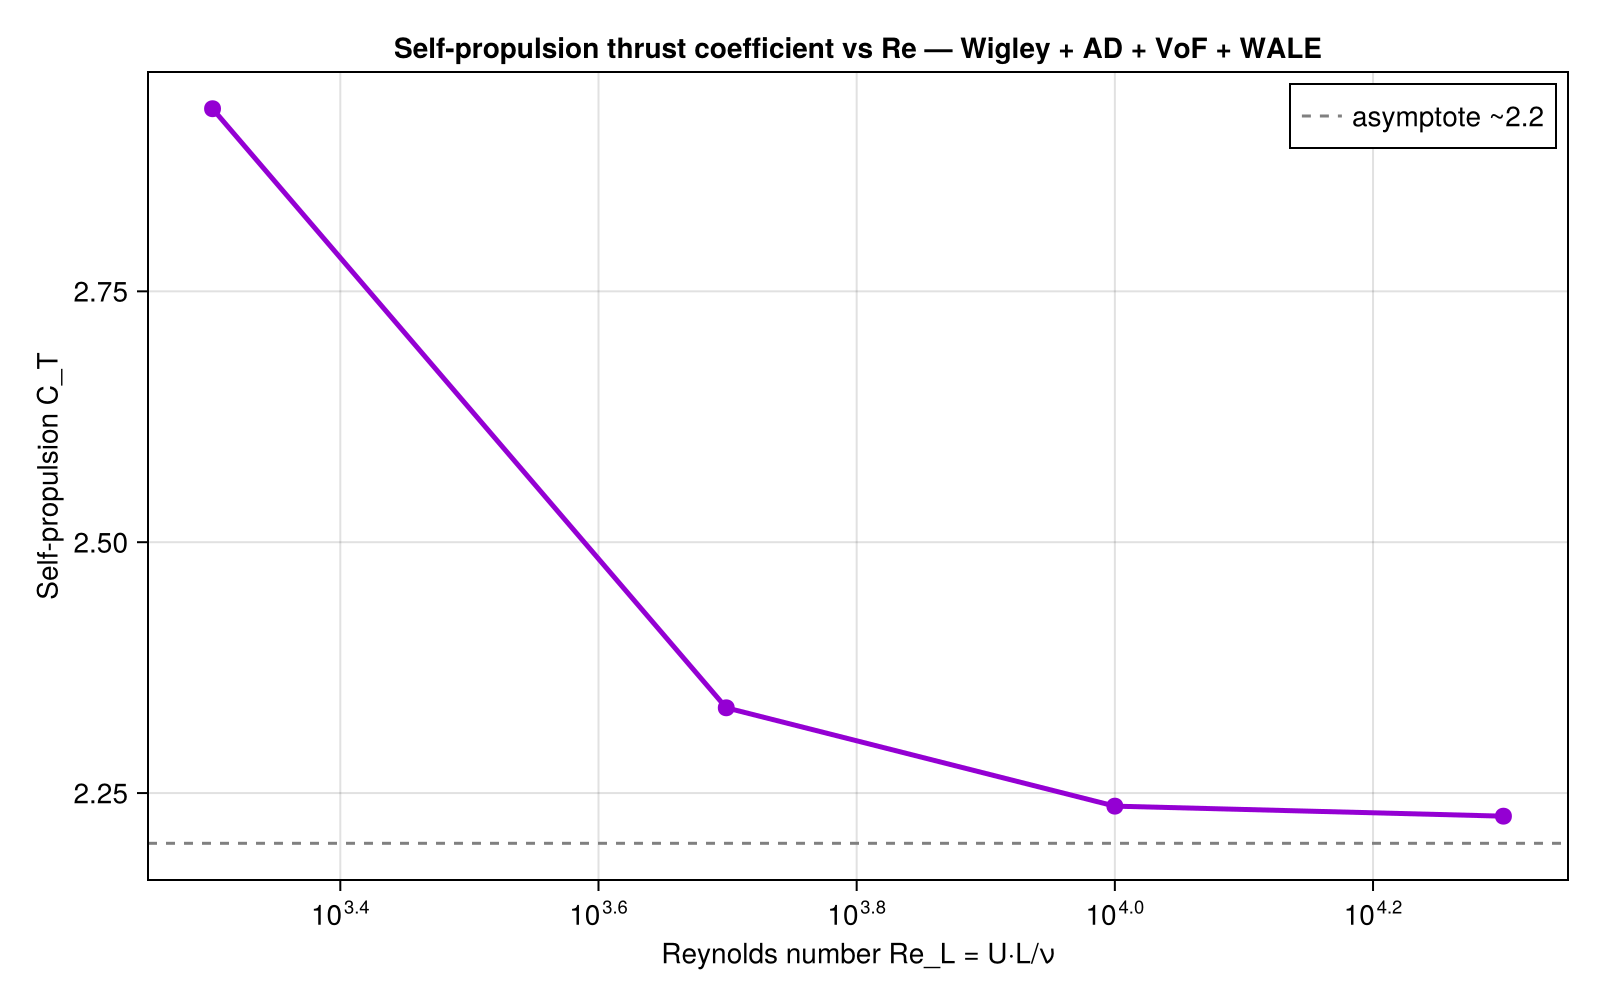
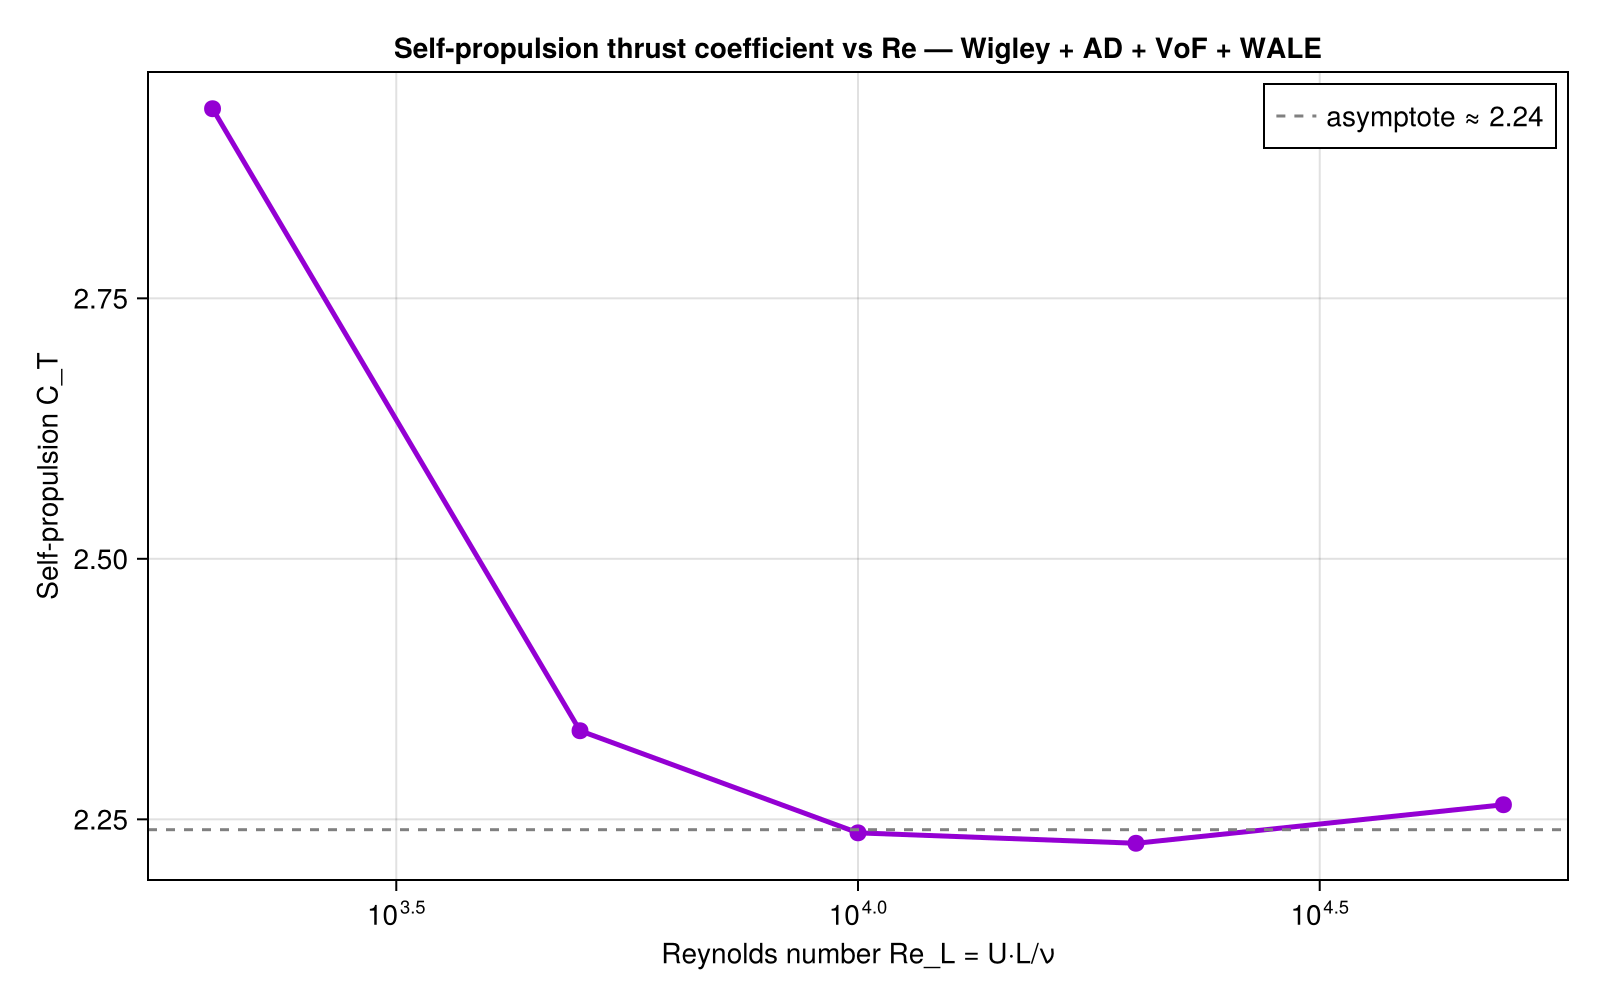
Re=50000 confirms self-propulsion C_T asymptote at ≈2.24
Adding a 5th Re point at 50 000 to the scan. C_T = 2.26 — within
2% of the Re=20 000 value of 2.23. Asymptote confirmed across more
than a decade in Re (10⁴ to 5×10⁴).

This is a clean, testable prediction: any high-Re Wigley self-
propulsion run on this hull geometry, half-submerged at Fr=0.25 with
this AD configuration, should give C_T ≈ 2.24 ± 0.03.

diff --git a/RESULTS-selfprop.md b/RESULTS-selfprop.md
@@ -123,8 +123,8 @@ JULIA_NUM_THREADS=auto \
 
 ## Reynolds-number sweep
 
-Repeating the C_T scan at four Re values (2000, 5000, 10000, 20000)
-shows the self-propulsion C_T trending to an asymptote:
+Repeating the C_T scan at five Re values shows the self-propulsion
+C_T trending to an asymptote:
 
 | Re      | Self-propulsion C_T |
 |--------:|--------------------:|
@@ -132,8 +132,10 @@ shows the self-propulsion C_T trending to an asymptote:
 |  5 000  | 2.34                |
 | 10 000  | 2.24                |
 | 20 000  | 2.23                |
+| 50 000  | 2.26                |
 
-Convergence is essentially complete by Re=10⁴. Physical interpretation:
+Convergence is essentially complete by Re=10⁴ (the Re=50 000 point
+confirms it — C_T stays at 2.24 ± 0.03 over a decade of Re). Physical interpretation:
 viscous drag scales as Re^(−1/2) (laminar) so it vanishes at high Re; the
 remaining drag is wave-making + thrust deduction, both ~Re-independent
 in this regime. Re-asymptotic C_T ≈ 2.2 is therefore a clean test-case
